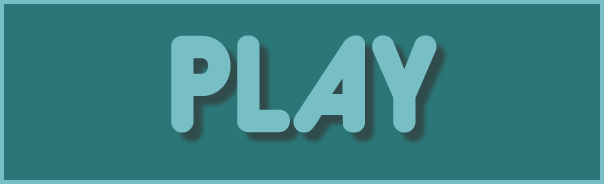
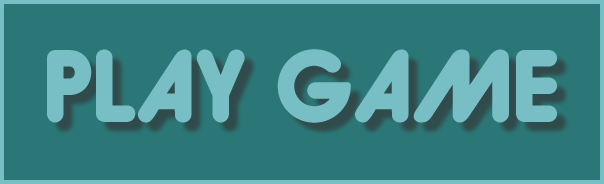
kl

Changed region(s): [[0.0596, 0.1902, 0.9536, 0.788]]

diff --git a/src/web/tictactoe/src/splash.js b/src/web/tictactoe/src/splash.js
@@ -18,6 +18,7 @@ define("zotohlab/p/splash", ['cherimoia/skarojs',
 
     var xcfg = sh.xcfg,
     csts= xcfg.csts,
+    R = sjs.ramda,
     undef,
 
     UILayer = cc.LayerColor.extend({
@@ -35,20 +36,34 @@ define("zotohlab/p/splash", ['cherimoia/skarojs',
       pkInit: function() {
 
         var wb = ccsx.vbox(),
+        s1= [null,null,null],
+        s2= [null,null,null],
+        tt, menu, t2, t1,
         cw = ccsx.center();
 
         this._super();
 
-        this.addItem(ccsx.pmenu1({
-          imgPath: sh.getImagePath('splash.play-btn'),
-          selector: function() {
-            sh.fireEvent('/splash/controls/playgame');
-          },
-          target: this,
-          scale: 1,
-          pos: cc.p(cw.x, wb.top *0.10)
-        }));
+        tt= new cc.Sprite(sh.getImagePath('splash.title'));
+        tt.setPosition(cw.x, wb.top * 0.9);
+        this.addItem(tt);
 
+        R.map.idx(function(z, pos, lst) {
+          lst[pos]= new cc.Sprite( sh.getImagePath('splash.options'));
+        }, s2);
+        R.map.idx(function(z, pos, lst) {
+          lst[pos]= new cc.Sprite( sh.getImagePath('splash.play'));
+        }, s1);
+
+        t2 = new cc.MenuItemSprite(s2[0], s2[1], s2[2], function() {
+        },this);
+        t1 = new cc.MenuItemSprite(s1[0], s1[1], s1[2], function() {
+          sh.fireEvent('/splash/controls/playgame');
+        }, this);
+
+        menu= new cc.Menu(t1,t2);
+        menu.alignItemsVerticallyWithPadding(2);
+        menu.setPosition(cw.x, wb.top * 0.15);
+        this.addItem(menu);
       },
 
       rtti: function() { return "SplashLayer"; }

diff --git a/src/web/cocos2d/src/zotohlab/ext/xcfg.js b/src/web/cocos2d/src/zotohlab/ext/xcfg.js
@@ -66,6 +66,7 @@ define("zotohlab/asx/xcfg", ['cherimoia/skarojs',
           'start_game' : 'res/cocos2d/sfx/PowerUp'
         },
         fonts: {
+          'font.TinyBoxBB' : [ 'res/cocos2d/fon/{{lang}}', 'TinyBoxBlackBitA8.png', 'TinyBoxBlackBitA8.fnt' ],
           'font.OogieBoogie' : [ 'res/cocos2d/fon/{{lang}}', 'OogieBoogie.png', 'OogieBoogie.fnt' ],
           'font.JellyBelly' : [ 'res/cocos2d/fon/{{lang}}', 'JellyBelly.png', 'JellyBelly.fnt' ],
           'font.AgentOrange' : [ 'res/cocos2d/fon/{{lang}}', 'AgentOrange.png', 'AgentOrange.fnt' ],

diff --git a/src/web/tictactoe/src/config.js b/src/web/tictactoe/src/config.js
@@ -55,7 +55,9 @@ define("zotohlab/p/config", ['cherimoia/skarojs',
         tiles: {
         },
         images: {
-          'splash.play-btn' : 'res/{{appid}}/l10n/{{lang}}/play.png',
+          'splash.options' : 'res/{{appid}}/l10n/{{lang}}/options.png',
+          'splash.title' : 'res/{{appid}}/ui/title.png',
+          'splash.play' : 'res/{{appid}}/l10n/{{lang}}/play.png',
           'arena.bg' : 'res/{{appid}}/pics/arena.png'
         },
         sounds: {
